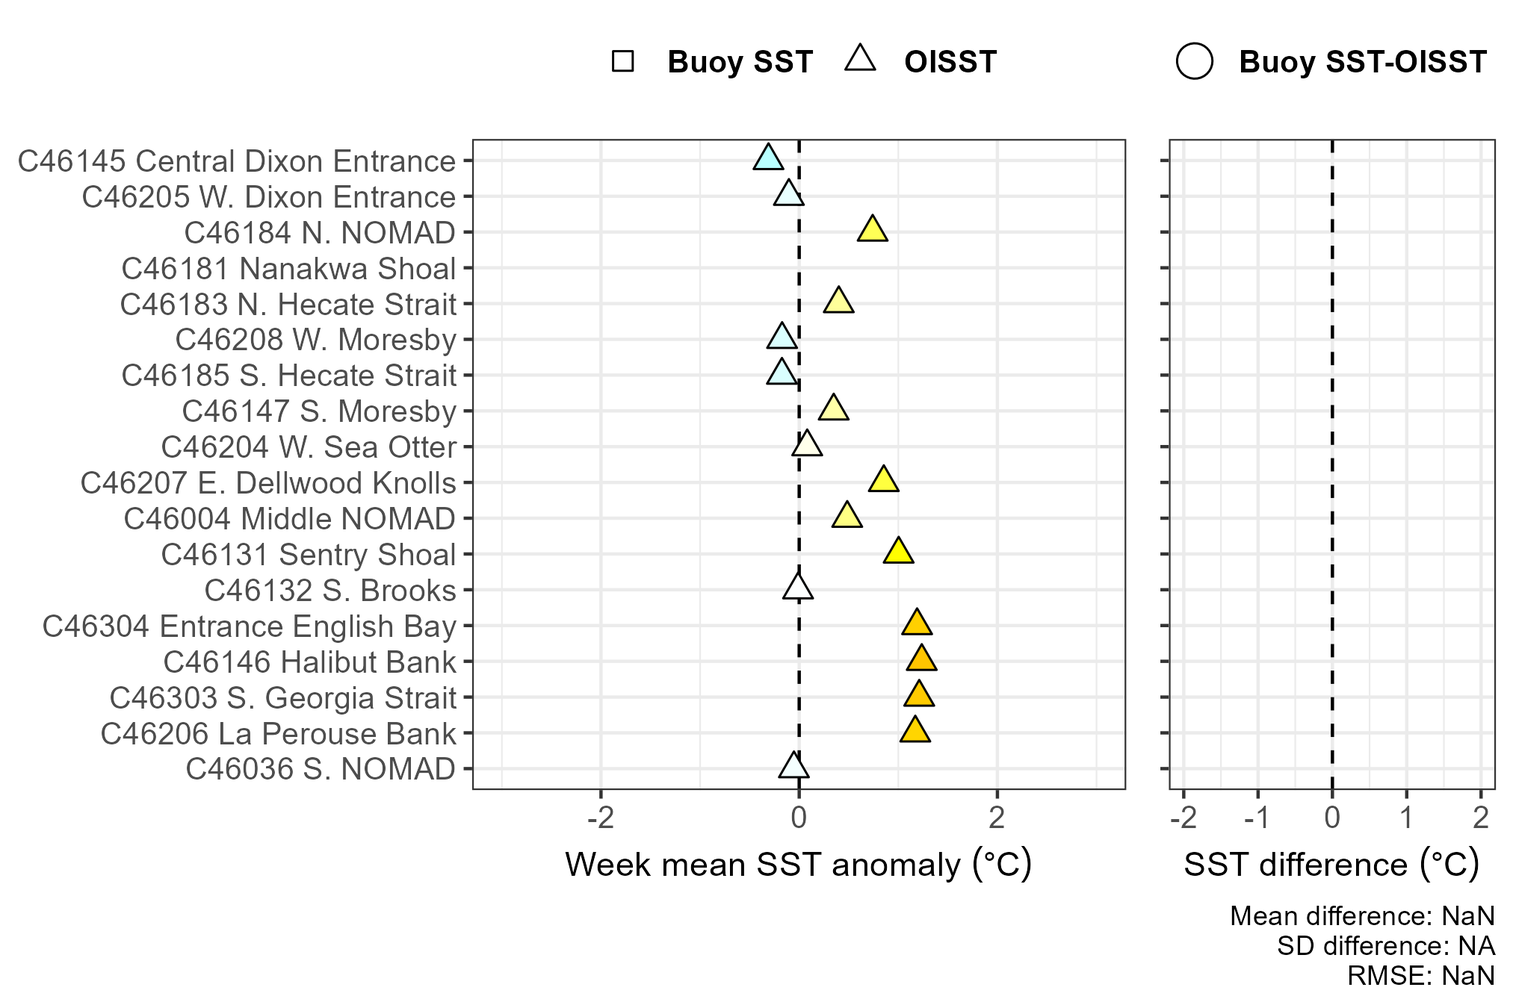
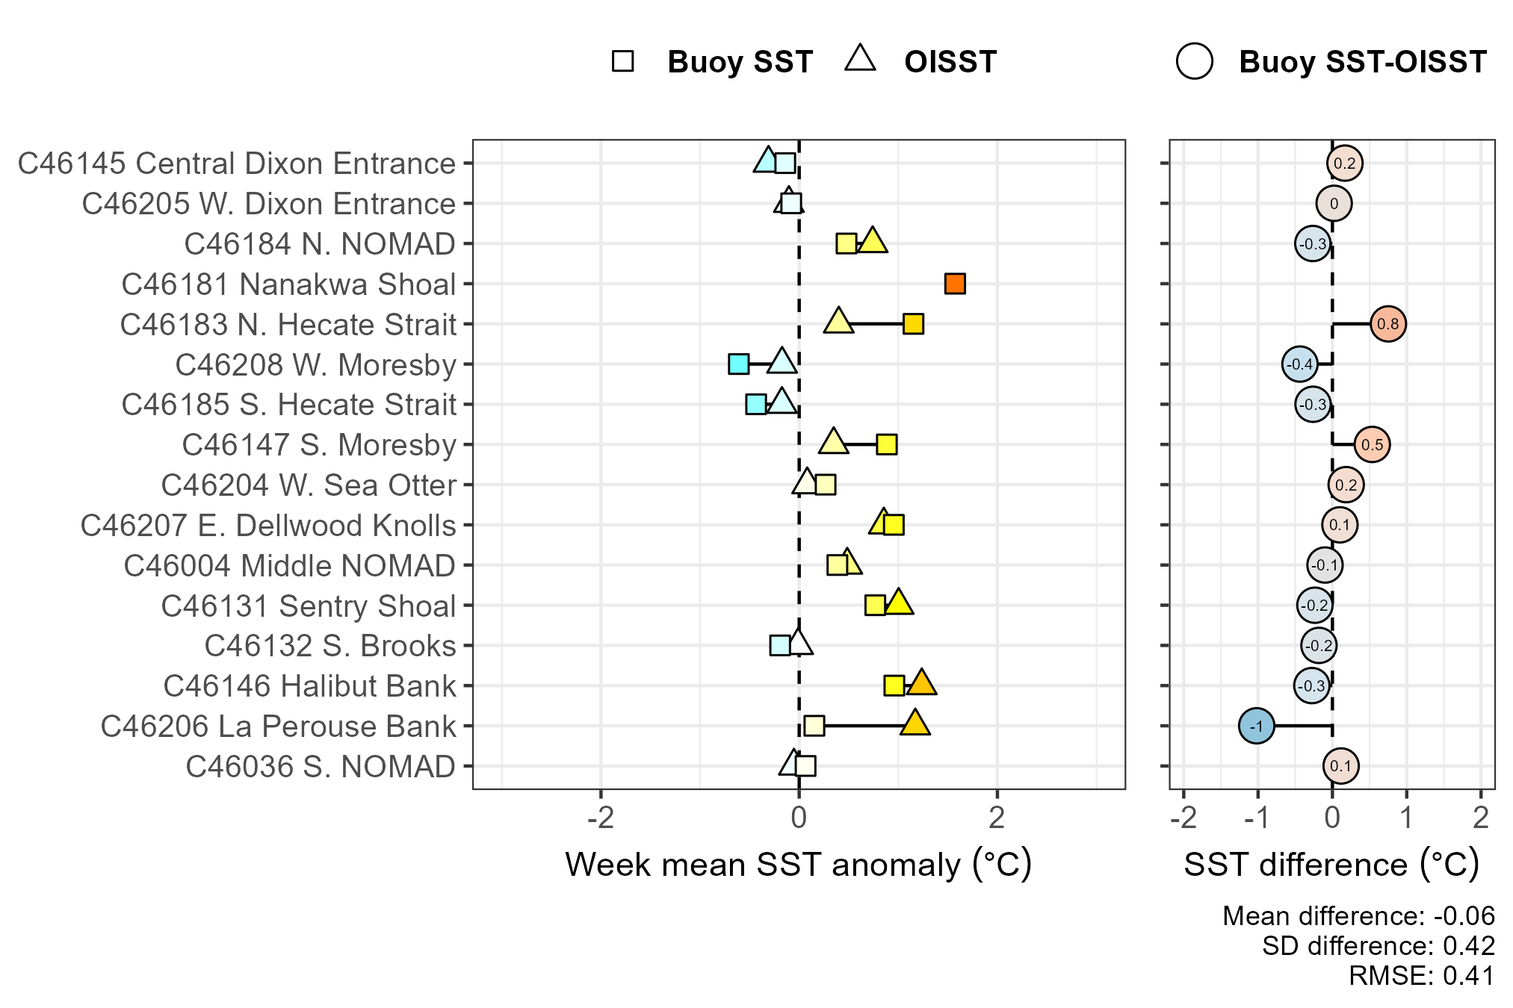
Built site for gh-pages

diff --git a/buoys.html b/buoys.html
@@ -8,7 +8,7 @@
 
 <meta name="author" content="Andrea Hilborn">
 <meta name="author" content="Charles Hannah">
-<meta name="dcterms.date" content="2026-09-28">
+<meta name="dcterms.date" content="2026-09-29">
 
 <title>Buoy temperature in the Canadian Pacific Exclusive Economic Zone and Northeast Pacific – Pacific SST Monitoring</title>
 <style>
@@ -157,6 +157,7 @@ div.csl-indent {
   <li><a href="#northeast-pacific-buoy-temperatures" id="toc-northeast-pacific-buoy-temperatures" class="nav-link" data-scroll-target="#northeast-pacific-buoy-temperatures">Northeast Pacific buoy temperatures</a>
   <ul class="collapse">
   <li><a href="#ndbc-buoy-data" id="toc-ndbc-buoy-data" class="nav-link" data-scroll-target="#ndbc-buoy-data">NDBC buoy data</a></li>
+  <li><a href="#latest-week-of-data-1" id="toc-latest-week-of-data-1" class="nav-link" data-scroll-target="#latest-week-of-data-1">Latest week of data</a></li>
   </ul></li>
   </ul>
 </nav>
@@ -184,7 +185,7 @@ div.csl-indent {
     <div>
     <div class="quarto-title-meta-heading">Published</div>
     <div class="quarto-title-meta-contents">
-      <p class="date">September 28, 2026</p>
+      <p class="date">September 29, 2026</p>
     </div>
   </div>
   
@@ -254,30 +255,17 @@ div.csl-indent {
 </section>
 <section id="latest-week-of-data" class="level3">
 <h3 class="anchored" data-anchor-id="latest-week-of-data">Latest week of data</h3>
-<div class="callout callout-style-default callout-warning callout-titled">
-<div class="callout-header d-flex align-content-center">
-<div class="callout-icon-container">
-<i class="callout-icon"></i>
-</div>
-<div class="callout-title-container flex-fill">
-Warning
-</div>
-</div>
-<div class="callout-body-container callout-body">
-<p>Fewer than 7 days were available last week from the ECCC data source. The weekly mean temperature and anomaly are likely incorrect.</p>
-</div>
-</div>
 <div class="quarto-figure quarto-figure-center">
 <figure class="figure">
-<p><a href="./figures/Buoy_week_SST_7-day_rollingavg.png" class="lightbox" data-gallery="quarto-lightbox-gallery-3" title="Coloured circles indicate the weekly SST and SST anomaly at buoy locations (see collapsed location map above), averaged to correspond to the OISST maps on the previous page. The Canadian Pacific EEZ is indicated with a dashed line, with grey outlines indicating BC Bioregion boundaries."><img src="./figures/Buoy_week_SST_7-day_rollingavg.png" class="img-fluid figure-img" alt="Coloured circles indicate the weekly SST and SST anomaly at buoy locations (see collapsed location map above), averaged to correspond to the OISST maps on the previous page. The Canadian Pacific EEZ is indicated with a dashed line, with grey outlines indicating BC Bioregion boundaries."></a></p>
-<figcaption><em>Coloured circles indicate the weekly SST and SST anomaly at buoy locations (see collapsed location map above), averaged to correspond to the OISST maps on the previous page. The Canadian Pacific EEZ is indicated with a dashed line, with grey outlines indicating BC Bioregion boundaries.</em></figcaption>
+<p><a href="./figures/Buoy_week_SST_7-day_rollingavg.png" class="lightbox" data-gallery="quarto-lightbox-gallery-3" title="Coloured circles indicate the weekly SST and SST anomaly at buoy locations (see collapsed location map above), averaged weekly to correspond to the OISST maps on the previous page. The Canadian Pacific EEZ is indicated with a dashed line, with grey outlines indicating BC Bioregion boundaries."><img src="./figures/Buoy_week_SST_7-day_rollingavg.png" class="img-fluid figure-img" alt="Coloured circles indicate the weekly SST and SST anomaly at buoy locations (see collapsed location map above), averaged weekly to correspond to the OISST maps on the previous page. The Canadian Pacific EEZ is indicated with a dashed line, with grey outlines indicating BC Bioregion boundaries."></a></p>
+<figcaption><em>Coloured circles indicate the weekly SST and SST anomaly at buoy locations (see collapsed location map above), averaged weekly to correspond to the OISST maps on the previous page. The Canadian Pacific EEZ is indicated with a dashed line, with grey outlines indicating BC Bioregion boundaries.</em></figcaption>
 </figure>
 </div>
 <div class="quarto-layout-panel" data-layout-ncol="2">
 <div class="quarto-layout-row">
 <div class="quarto-layout-cell" style="flex-basis: 50.0%;justify-content: flex-start;">
 <div class="callout callout-style-default callout-note no-icon callout-titled">
-<div class="callout-header d-flex align-content-center" data-bs-toggle="collapse" data-bs-target=".callout-4-contents" aria-controls="callout-4" aria-expanded="true" aria-label="Toggle callout">
+<div class="callout-header d-flex align-content-center" data-bs-toggle="collapse" data-bs-target=".callout-3-contents" aria-controls="callout-3" aria-expanded="true" aria-label="Toggle callout">
 <div class="callout-icon-container">
 <i class="callout-icon no-icon"></i>
 </div>
@@ -286,7 +274,7 @@ Warning
 </div>
 <div class="callout-btn-toggle d-inline-block border-0 py-1 ps-1 pe-0 float-end"><i class="callout-toggle"></i></div>
 </div>
-<div id="callout-4" class="callout-4-contents callout-collapse collapse show">
+<div id="callout-3" class="callout-3-contents callout-collapse collapse show">
 <div class="callout-body-container callout-body">
 <p><a href="./figures/Buoy_OISST_diffs_comparison.png" class="lightbox" data-gallery="quarto-lightbox-gallery-4"><img src="./figures/Buoy_OISST_diffs_comparison.png" class="img-fluid"></a></p>
 </div>
@@ -295,7 +283,7 @@ Warning
 </div>
 <div class="quarto-layout-cell" style="flex-basis: 50.0%;justify-content: flex-start;">
 <div class="callout callout-style-default callout-note no-icon callout-titled">
-<div class="callout-header d-flex align-content-center" data-bs-toggle="collapse" data-bs-target=".callout-5-contents" aria-controls="callout-5" aria-expanded="true" aria-label="Toggle callout">
+<div class="callout-header d-flex align-content-center" data-bs-toggle="collapse" data-bs-target=".callout-4-contents" aria-controls="callout-4" aria-expanded="true" aria-label="Toggle callout">
 <div class="callout-icon-container">
 <i class="callout-icon no-icon"></i>
 </div>
@@ -304,7 +292,7 @@ Warning
 </div>
 <div class="callout-btn-toggle d-inline-block border-0 py-1 ps-1 pe-0 float-end"><i class="callout-toggle"></i></div>
 </div>
-<div id="callout-5" class="callout-5-contents callout-collapse collapse show">
+<div id="callout-4" class="callout-4-contents callout-collapse collapse show">
 <div class="callout-body-container callout-body">
 <p><a href="./figures/Buoy_OISST_diffs_comparison_anomaly.png" class="lightbox" data-gallery="quarto-lightbox-gallery-5"><img src="./figures/Buoy_OISST_diffs_comparison_anomaly.png" class="img-fluid"></a></p>
 </div>
@@ -314,16 +302,16 @@ Warning
 </div>
 </div>
 <div class="callout callout-style-default callout-note no-icon callout-titled">
-<div class="callout-header d-flex align-content-center collapsed" data-bs-toggle="collapse" data-bs-target=".callout-7-contents" aria-controls="callout-7" aria-expanded="false" aria-label="Toggle callout">
+<div class="callout-header d-flex align-content-center collapsed" data-bs-toggle="collapse" data-bs-target=".callout-6-contents" aria-controls="callout-6" aria-expanded="false" aria-label="Toggle callout">
 <div class="callout-icon-container">
 <i class="callout-icon no-icon"></i>
 </div>
 <div class="callout-title-container flex-fill">
-<span class="screen-reader-only">Note</span>2026 buoy SST and SST anomalies
+<span class="screen-reader-only">Note</span>2026 ECCC buoy SST and SST anomalies
 </div>
 <div class="callout-btn-toggle d-inline-block border-0 py-1 ps-1 pe-0 float-end"><i class="callout-toggle"></i></div>
 </div>
-<div id="callout-7" class="callout-7-contents callout-collapse collapse">
+<div id="callout-6" class="callout-6-contents callout-collapse collapse">
 <div class="callout-body-container callout-body">
 <p>The white lines outlined in black are daily mean observations from 2026. The buoy climatological mean (grey line) is plotted with 10th and 90th percentiles (grey shading). The climatology spans 1991–2020, though some buoys began collecting data later: <code>C46146 Halibut Bank</code>, <code>C46131 Sentry Shoal</code>, <code>C46147 South Moresby</code> and <code>C46132 South Brooks</code>.</p>
 <p><em>There are no climatologies for <code>C46303 South Georgia Strait</code> and <code>C46304 Entrance English Bay</code> as they were installed in 2019.</em></p>
@@ -411,7 +399,7 @@ Warning
 </div>
 </div>
 <div class="callout callout-style-simple callout-note no-icon callout-titled">
-<div class="callout-header d-flex align-content-center collapsed" data-bs-toggle="collapse" data-bs-target=".callout-6-contents" aria-controls="callout-6" aria-expanded="false" aria-label="Toggle callout">
+<div class="callout-header d-flex align-content-center collapsed" data-bs-toggle="collapse" data-bs-target=".callout-5-contents" aria-controls="callout-5" aria-expanded="false" aria-label="Toggle callout">
 <div class="callout-icon-container">
 <i class="callout-icon no-icon"></i>
 </div>
@@ -420,7 +408,7 @@ Warning
 </div>
 <div class="callout-btn-toggle d-inline-block border-0 py-1 ps-1 pe-0 float-end"><i class="callout-toggle"></i></div>
 </div>
-<div id="callout-6" class="callout-6-contents callout-collapse collapse">
+<div id="callout-5" class="callout-5-contents callout-collapse collapse">
 <div class="callout-body-container callout-body">
 <p>The start dates listed here may not correspond with other sources (e.g., the <a href="https://www.pac.dfo-mpo.gc.ca/science/oceans/data-donnees/buoydata-donneebouee/index-eng.html">ECCC website</a>) but represent the data record available at the sources listed above, as of December 2023.</p>
 <p>An up-to-date buoy status report can be viewed here: <a href="https://collaboration.cmc.ec.gc.ca/cmc/wbs/bplatstat.html" class="uri">https://collaboration.cmc.ec.gc.ca/cmc/wbs/bplatstat.html</a></p>
@@ -564,7 +552,7 @@ Warning
 <li><strong>Climatology period:</strong> 1991–2020 (where available)</li>
 </ul>
 <div class="callout callout-style-default callout-note no-icon callout-titled">
-<div class="callout-header d-flex align-content-center collapsed" data-bs-toggle="collapse" data-bs-target=".callout-8-contents" aria-controls="callout-8" aria-expanded="false" aria-label="Toggle callout">
+<div class="callout-header d-flex align-content-center collapsed" data-bs-toggle="collapse" data-bs-target=".callout-7-contents" aria-controls="callout-7" aria-expanded="false" aria-label="Toggle callout">
 <div class="callout-icon-container">
 <i class="callout-icon no-icon"></i>
 </div>
@@ -573,7 +561,7 @@ Warning
 </div>
 <div class="callout-btn-toggle d-inline-block border-0 py-1 ps-1 pe-0 float-end"><i class="callout-toggle"></i></div>
 </div>
-<div id="callout-8" class="callout-8-contents callout-collapse collapse">
+<div id="callout-7" class="callout-7-contents callout-collapse collapse">
 <div class="callout-body-container callout-body">
 <div class="quarto-figure quarto-figure-center">
 <figure class="figure">
@@ -584,7 +572,7 @@ Warning
 </div>
 </div>
 <div class="callout callout-style-default callout-note no-icon callout-titled">
-<div class="callout-header d-flex align-content-center collapsed" data-bs-toggle="collapse" data-bs-target=".callout-9-contents" aria-controls="callout-9" aria-expanded="false" aria-label="Toggle callout">
+<div class="callout-header d-flex align-content-center collapsed" data-bs-toggle="collapse" data-bs-target=".callout-8-contents" aria-controls="callout-8" aria-expanded="false" aria-label="Toggle callout">
 <div class="callout-icon-container">
 <i class="callout-icon no-icon"></i>
 </div>
@@ -593,7 +581,7 @@ Warning
 </div>
 <div class="callout-btn-toggle d-inline-block border-0 py-1 ps-1 pe-0 float-end"><i class="callout-toggle"></i></div>
 </div>
-<div id="callout-9" class="callout-9-contents callout-collapse collapse">
+<div id="callout-8" class="callout-8-contents callout-collapse collapse">
 <div class="callout-body-container callout-body">
 <div class="quarto-figure quarto-figure-center">
 <figure class="figure">
@@ -608,31 +596,121 @@ Warning
 </div>
 </div>
 </div>
-<section id="latest-week-of-data-1" class="level4">
-<h4 class="anchored" data-anchor-id="latest-week-of-data-1">Latest week of data</h4>
-<div class="callout callout-style-default callout-warning callout-titled">
-<div class="callout-header d-flex align-content-center">
-<div class="callout-icon-container">
-<i class="callout-icon"></i>
-</div>
-<div class="callout-title-container flex-fill">
-Warning
-</div>
-</div>
-<div class="callout-body-container callout-body">
-<p>Fewer than 7 days were available last week from the ECCC data source. The weekly mean temperature and anomaly are likely incorrect.</p>
-</div>
-</div>
+</section>
+<section id="latest-week-of-data-1" class="level3">
+<h3 class="anchored" data-anchor-id="latest-week-of-data-1">Latest week of data</h3>
 <div class="quarto-figure quarto-figure-center">
 <figure class="figure">
-<p><a href="./figures/Buoy_week_SST_7-day_rollingavg_LARGE.png" class="lightbox" data-gallery="quarto-lightbox-gallery-24" title="Coloured circles indicate the weekly SST and SST anomaly at buoy locations (see collapsed location maps above), averaged to correspond to the OISST maps on the previous page."><img src="./figures/Buoy_week_SST_7-day_rollingavg_LARGE.png" class="img-fluid figure-img" alt="Coloured circles indicate the weekly SST and SST anomaly at buoy locations (see collapsed location maps above), averaged to correspond to the OISST maps on the previous page."></a></p>
-<figcaption><em>Coloured circles indicate the weekly SST and SST anomaly at buoy locations (see collapsed location maps above), averaged to correspond to the OISST maps on the previous page.</em></figcaption>
+<p><a href="./figures/Buoy_week_SST_7-day_rollingavg_LARGE.png" class="lightbox" data-gallery="quarto-lightbox-gallery-24" title="Coloured circles indicate the weekly SST and SST anomaly at buoy locations (see collapsed location maps above), averaged weekly to correspond to the OISST maps on the previous page."><img src="./figures/Buoy_week_SST_7-day_rollingavg_LARGE.png" class="img-fluid figure-img" alt="Coloured circles indicate the weekly SST and SST anomaly at buoy locations (see collapsed location maps above), averaged weekly to correspond to the OISST maps on the previous page."></a></p>
+<figcaption><em>Coloured circles indicate the weekly SST and SST anomaly at buoy locations (see collapsed location maps above), averaged weekly to correspond to the OISST maps on the previous page.</em></figcaption>
 </figure>
+</div>
+<div class="callout callout-style-default callout-note no-icon callout-titled">
+<div class="callout-header d-flex align-content-center collapsed" data-bs-toggle="collapse" data-bs-target=".callout-9-contents" aria-controls="callout-9" aria-expanded="false" aria-label="Toggle callout">
+<div class="callout-icon-container">
+<i class="callout-icon no-icon"></i>
+</div>
+<div class="callout-title-container flex-fill">
+<span class="screen-reader-only">Note</span>2026 NDBC buoy SST and SST anomalies
+</div>
+<div class="callout-btn-toggle d-inline-block border-0 py-1 ps-1 pe-0 float-end"><i class="callout-toggle"></i></div>
+</div>
+<div id="callout-9" class="callout-9-contents callout-collapse collapse">
+<div class="callout-body-container callout-body">
+<p>The white lines outlined in black are daily mean observations from 2026. The buoy climatological mean (grey line) is plotted with 10th and 90th percentiles (grey shading). The climatology spans 1991–2020, though some buoys began collecting data later: <code>C46246 Ocean Station Papa</code> and <code>C46087 Neah Bay</code>.</p>
+<div class="quarto-layout-panel" data-layout-ncol="2">
+<div class="quarto-layout-row">
+<div class="quarto-layout-cell" style="flex-basis: 50.0%;justify-content: center;">
+<p><a href="./figures/Daily_mean_SSTP_2026_NDBC_C46060.png" class="lightbox" data-gallery="buoy-gallery"><img src="./figures/Daily_mean_SSTP_2026_NDBC_C46060.png" class="img-fluid"></a></p>
+</div>
+<div class="quarto-layout-cell" style="flex-basis: 50.0%;justify-content: center;">
+<p><a href="./figures/Daily_mean_SSTP_2026_NDBC_C46061.png" class="lightbox" data-gallery="buoy-gallery"><img src="./figures/Daily_mean_SSTP_2026_NDBC_C46061.png" class="img-fluid"></a></p>
+</div>
+</div>
+</div>
+<div class="quarto-layout-panel" data-layout-ncol="2">
+<div class="quarto-layout-row">
+<div class="quarto-layout-cell" style="flex-basis: 50.0%;justify-content: center;">
+<p><a href="./figures/Daily_mean_SSTP_2026_NDBC_C46001.png" class="lightbox" data-gallery="buoy-gallery"><img src="./figures/Daily_mean_SSTP_2026_NDBC_C46001.png" class="img-fluid"></a></p>
+</div>
+<div class="quarto-layout-cell" style="flex-basis: 50.0%;justify-content: center;">
+<p><a href="./figures/Daily_mean_SSTP_2026_NDBC_C46246.png" class="lightbox" data-gallery="buoy-gallery"><img src="./figures/Daily_mean_SSTP_2026_NDBC_C46246.png" class="img-fluid"></a></p>
+</div>
+</div>
+</div>
+<div class="quarto-layout-panel" data-layout-ncol="2">
+<div class="quarto-layout-row">
+<div class="quarto-layout-cell" style="flex-basis: 50.0%;justify-content: center;">
+<p><a href="./figures/Daily_mean_SSTP_2026_NDBC_C46087.png" class="lightbox" data-gallery="buoy-gallery"><img src="./figures/Daily_mean_SSTP_2026_NDBC_C46087.png" class="img-fluid"></a></p>
+</div>
+<div class="quarto-layout-cell" style="flex-basis: 50.0%;justify-content: center;">
+<p><a href="./figures/Daily_mean_SSTP_2026_NDBC_C46041.png" class="lightbox" data-gallery="buoy-gallery"><img src="./figures/Daily_mean_SSTP_2026_NDBC_C46041.png" class="img-fluid"></a></p>
+</div>
+</div>
+</div>
+<div class="quarto-layout-panel" data-layout-ncol="2">
+<div class="quarto-layout-row">
+<div class="quarto-layout-cell" style="flex-basis: 50.0%;justify-content: center;">
+<p><a href="./figures/Daily_mean_SSTP_2026_NDBC_C46005.png" class="lightbox" data-gallery="buoy-gallery"><img src="./figures/Daily_mean_SSTP_2026_NDBC_C46005.png" class="img-fluid"></a></p>
+</div>
+<div class="quarto-layout-cell" style="flex-basis: 50.0%;justify-content: center;">
+<p><a href="./figures/Daily_mean_SSTP_2026_NDBC_C46029.png" class="lightbox" data-gallery="buoy-gallery"><img src="./figures/Daily_mean_SSTP_2026_NDBC_C46029.png" class="img-fluid"></a></p>
+</div>
+</div>
+</div>
+<div class="quarto-layout-panel" data-layout-ncol="2">
+<div class="quarto-layout-row">
+<div class="quarto-layout-cell" style="flex-basis: 50.0%;justify-content: center;">
+<p><a href="./figures/Daily_mean_SSTP_2026_NDBC_C46002.png" class="lightbox" data-gallery="buoy-gallery"><img src="./figures/Daily_mean_SSTP_2026_NDBC_C46002.png" class="img-fluid"></a></p>
+</div>
+<div class="quarto-layout-cell" style="flex-basis: 50.0%;justify-content: center;">
+<p><a href="./figures/Daily_mean_SSTP_2026_NDBC_C46059.png" class="lightbox" data-gallery="buoy-gallery"><img src="./figures/Daily_mean_SSTP_2026_NDBC_C46059.png" class="img-fluid"></a></p>
+</div>
+</div>
+</div>
+<div class="quarto-layout-panel" data-layout-ncol="2">
+<div class="quarto-layout-row">
+<div class="quarto-layout-cell" style="flex-basis: 50.0%;justify-content: center;">
+<p><a href="./figures/Daily_mean_SSTP_2026_NDBC_C46022.png" class="lightbox" data-gallery="buoy-gallery"><img src="./figures/Daily_mean_SSTP_2026_NDBC_C46022.png" class="img-fluid"></a></p>
+</div>
+<div class="quarto-layout-cell" style="flex-basis: 50.0%;justify-content: center;">
+<p><a href="./figures/Daily_mean_SSTP_2026_NDBC_C46014.png" class="lightbox" data-gallery="buoy-gallery"><img src="./figures/Daily_mean_SSTP_2026_NDBC_C46014.png" class="img-fluid"></a></p>
+</div>
+</div>
+</div>
+<div class="quarto-layout-panel" data-layout-ncol="2">
+<div class="quarto-layout-row">
+<div class="quarto-layout-cell" style="flex-basis: 50.0%;justify-content: center;">
+<p><a href="./figures/Daily_mean_SSTP_2026_NDBC_C46013.png" class="lightbox" data-gallery="buoy-gallery"><img src="./figures/Daily_mean_SSTP_2026_NDBC_C46013.png" class="img-fluid"></a></p>
+</div>
+<div class="quarto-layout-cell" style="flex-basis: 50.0%;justify-content: center;">
+<p><a href="./figures/Daily_mean_SSTP_2026_NDBC_C46026.png" class="lightbox" data-gallery="buoy-gallery"><img src="./figures/Daily_mean_SSTP_2026_NDBC_C46026.png" class="img-fluid"></a></p>
+</div>
+</div>
+</div>
+<div class="quarto-layout-panel" data-layout-ncol="2">
+<div class="quarto-layout-row">
+<div class="quarto-layout-cell" style="flex-basis: 50.0%;justify-content: center;">
+<p><a href="./figures/Daily_mean_SSTP_2026_NDBC_C46042.png" class="lightbox" data-gallery="buoy-gallery"><img src="./figures/Daily_mean_SSTP_2026_NDBC_C46042.png" class="img-fluid"></a></p>
+</div>
+<div class="quarto-layout-cell" style="flex-basis: 50.0%;justify-content: center;">
+<p><a href="./figures/Daily_mean_SSTP_2026_NDBC_C46028.png" class="lightbox" data-gallery="buoy-gallery"><img src="./figures/Daily_mean_SSTP_2026_NDBC_C46028.png" class="img-fluid"></a></p>
+</div>
+</div>
+</div>
+<div class="quarto-layout-panel" data-layout-ncol="2">
+<div class="quarto-layout-row">
+<div class="quarto-layout-cell" style="flex-basis: 50.0%;justify-content: center;">
+<p><a href="./figures/Daily_mean_SSTP_2026_NDBC_C46054.png" class="lightbox" data-gallery="buoy-gallery"><img src="./figures/Daily_mean_SSTP_2026_NDBC_C46054.png" class="img-fluid"></a></p>
+</div>
+</div>
+</div>
+</div>
+</div>
 </div>
 
 
 
-</section>
 </section>
 </section>
 
@@ -644,12 +722,12 @@ Kellogg, J., Rosenstock, N., Page, S., Hourston, R., Devred, E., and Hannah, C. 
   author = {Hilborn, Andrea and Hannah, Charles},
   title = {Buoy Temperature in the {Canadian} {Pacific} {Exclusive}
     {Economic} {Zone} and {Northeast} {Pacific}},
-  date = {2026-09-28},
+  date = {2026-09-29},
   url = {https://ios-osd-dpg.github.io/Pacific_SST_Monitoring_Site/},
   langid = {en}
 }
 </code><button title="Copy to Clipboard" class="code-copy-button"><i class="bi"></i></button></pre><div class="quarto-appendix-secondary-label">For attribution, please cite this work as:</div><div id="ref-hilborn2026" class="csl-entry quarto-appendix-citeas" role="listitem">
-Hilborn, A., and Hannah, C. 2026, September 28. Buoy temperature in the
+Hilborn, A., and Hannah, C. 2026, September 29. Buoy temperature in the
 Canadian Pacific Exclusive Economic Zone and Northeast Pacific.
 Available from <a href="https://ios-osd-dpg.github.io/Pacific_SST_Monitoring_Site/">https://ios-osd-dpg.github.io/Pacific_SST_Monitoring_Site/</a>.
 </div></div></section></div></main> <!-- /main -->

diff --git a/index.html b/index.html
@@ -9,7 +9,7 @@
 <meta name="author" content="Andrea Hilborn">
 <meta name="author" content="Charles Hannah">
 <meta name="author" content="Lu Guan">
-<meta name="dcterms.date" content="2026-09-28">
+<meta name="dcterms.date" content="2026-09-29">
 
 <title>Sea surface temperature in the Northeast Pacific – Pacific SST Monitoring</title>
 <style>
@@ -188,7 +188,7 @@ div.csl-indent {
     <div>
     <div class="quarto-title-meta-heading">Published</div>
     <div class="quarto-title-meta-contents">
-      <p class="date">September 28, 2026</p>
+      <p class="date">September 29, 2026</p>
     </div>
   </div>
   
@@ -425,12 +425,12 @@ Schlegel, R.W., Darmaraki, S., Benthuysen, J.A., Filbee-Dexter, K., and Oliver, 
 </div></section><section class="quarto-appendix-contents" id="quarto-citation"><h2 class="anchored quarto-appendix-heading">Citation</h2><div><div class="quarto-appendix-secondary-label">BibTeX citation:</div><pre class="sourceCode code-with-copy quarto-appendix-bibtex"><code class="sourceCode bibtex">@online{hilborn2026,
   author = {Hilborn, Andrea and Hannah, Charles and Guan, Lu},
   title = {Sea Surface Temperature in the {Northeast} {Pacific}},
-  date = {2026-09-28},
+  date = {2026-09-29},
   url = {https://ios-osd-dpg.github.io/Pacific_SST_Monitoring_Site/},
   langid = {en}
 }
 </code><button title="Copy to Clipboard" class="code-copy-button"><i class="bi"></i></button></pre><div class="quarto-appendix-secondary-label">For attribution, please cite this work as:</div><div id="ref-hilborn2026" class="csl-entry quarto-appendix-citeas" role="listitem">
-Hilborn, A., Hannah, C., and Guan, L. 2026, September 28. Sea surface
+Hilborn, A., Hannah, C., and Guan, L. 2026, September 29. Sea surface
 temperature in the Northeast Pacific. Available from <a href="https://ios-osd-dpg.github.io/Pacific_SST_Monitoring_Site/">https://ios-osd-dpg.github.io/Pacific_SST_Monitoring_Site/</a>.
 </div></div></section></div></main> <!-- /main -->
 <script id="quarto-html-after-body" type="application/javascript">
